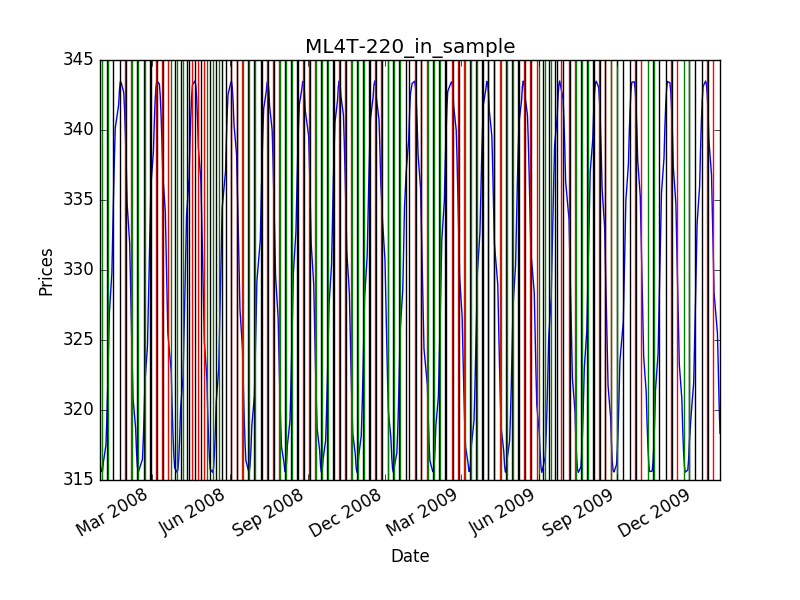
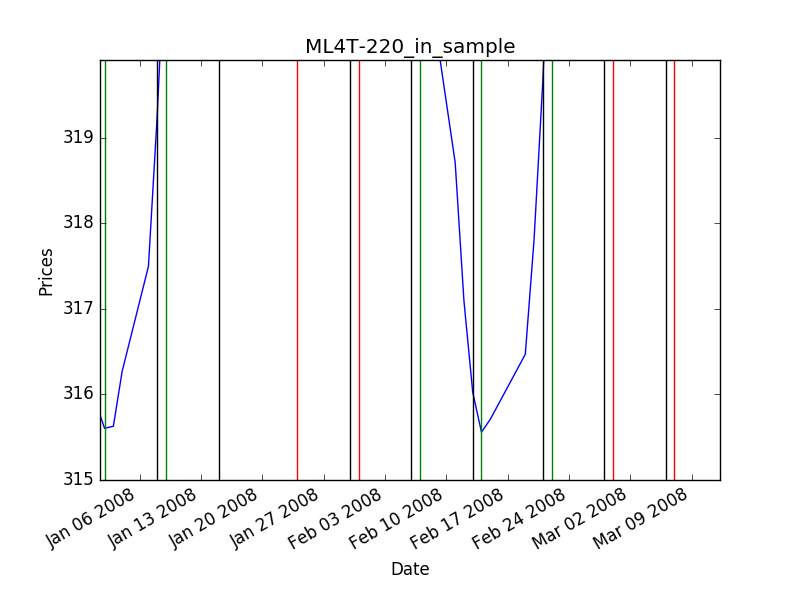
created all necessary graphs and code; trading not optimized

diff --git a/mc3_p2/preprocess.py b/mc3_p2/preprocess.py
@@ -62,9 +62,9 @@ def plot_strategy(price, of='./Orders/orders.csv', name='default'):
 
     # Plot vertical lines for shorts
     for i in range(0, len(orders)):
-        if (orders.ix[i]['Strat'] == 'Short') and (orders.ix[i]['Type'] == 'Exit'):
+        if (orders.ix[i]['Strat'] == 'Short') and (orders.ix[i]['Type'] == 'Entry'):
             ax.axvline(orders.ix[i]['Date'], color='r', linestyle='solid')
-        elif (orders.ix[i]['Strat'] == 'Short') and (orders.ix[i]['Type'] == 'Entry'):
+        elif (orders.ix[i]['Strat'] == 'Short') and (orders.ix[i]['Type'] == 'Exit'):
             ax.axvline(orders.ix[i]['Date'], color='black', linestyle='solid')
         elif (orders.ix[i]['Strat'] == 'Long') and (orders.ix[i]['Type'] == 'Entry'):
             ax.axvline(orders.ix[i]['Date'], color='green', linestyle='solid')
@@ -76,9 +76,6 @@ def plot_strategy(price, of='./Orders/orders.csv', name='default'):
     plt.show()
     fig = ax.get_figure()
     fig.savefig('./Output/%s_strategy_exitentry.png' % (name))
-
-def plot_backtest():
-    pass
 
 
 #########################################################
@@ -140,8 +137,8 @@ def preprocess_data(sym, sdate, edate, in_sample=False, is_values={}):
     df.dropna(how='any', inplace=True)
 
     # printing for debugging
-    print df.head(10)
-    print df.describe()
+    #print df.head(10)
+    #print df.describe()
 
     if in_sample:
         return df, is_values
@@ -179,8 +176,8 @@ def SendtoModel(train_df, train_price, test_df, test_price, model='knn', symbol=
         #output graphs - normalized lines
         # plot_lines_data(price_norm=train_price, actualY=train_df.iloc[0:,-1], predY=pd.Series(predY_train, index=train_df.index),
         #           name='%s_in_sample_%s' % (symbol[0], model))
-        plot_lines_data(price_norm=test_price, actualY=test_df.iloc[0:,-1], predY=pd.Series(predY_test, index=test_df.index),
-                  name='%s_out_sample_%s' % (symbol[0], model))
+        # plot_lines_data(price_norm=test_price, actualY=test_df.iloc[0:,-1], predY=pd.Series(predY_test, index=test_df.index),
+        #           name='%s_out_sample_%s' % (symbol[0], model))
 
 
         if verbose:
@@ -270,12 +267,12 @@ def create_5day_orders(df, sym='IBM', type='insample'):
 
 if __name__ == "__main__":
     # 1) Set constants
-    start_val = 1000000
+    start_val = 10000
     in_sample_dict = {}  # dictionary to hold in sample technical values stats
 
     # 2) Get and process training set
-    sym = ['IBM']
-    #sym = ['ML4T-220']
+    #sym = ['IBM']
+    sym = ['ML4T-220']
     is_start_dt = dt.datetime(2007, 12, 31)
     is_end_dt = dt.datetime(2009, 12, 31)
     is_df = get_data(sym, pd.date_range(is_start_dt, is_end_dt)) #returns symbol with closing prices
@@ -307,23 +304,23 @@ if __name__ == "__main__":
     # a) in sample
     returns_train_df = pd.concat([is_spy_df, pd.DataFrame(pred_train_Y, index = train.index, columns=['predY_returns'])], axis=1)
     create_5day_orders(returns_train_df, sym=sym, type='insample')
-    # plot_strategy(price=is_df[sym], of='./Orders/ML4T-220_knn_orders_5day_insample.csv', name='%s_in_sample' % sym[0])
+    # plot_strategy(price=is_df[sym], of='./Orders/%s_knn_orders_5day_insample.csv' % sym[0], name='%s_in_sample' % sym[0])
 
 
     # b) out of sample
     returns_test_df = pd.concat([oos_spy_df, pd.DataFrame(pred_test_Y, index = test.index, columns=['predY_returns'])], axis=1)
     create_5day_orders(returns_test_df, sym=sym, type='outsample')
-    #plot_strategy(price=oos_df[sym], of='./Orders/ML4T-220_knn_orders_5day_outsample.csv', name='%s_out_sample' % sym[0])
+    plot_strategy(price=oos_df[sym], of='./Orders/%s_knn_orders_5day_outsample.csv' % sym[0], name='%s_out_sample' % sym[0])
 
     #create_rolling_orders(pred_return_df, sym=sym)  #TODO extra credit
 
 
     # 5) Run orders through market simulators and output back testing graph
-    # sims_output(sv=start_val, of='./Orders/ML4T-220_knn_orders_5day_insample.csv', gen_plot=True,
+    # sims_output(sv=start_val, of='./Orders/%s_knn_orders_5day_insample.csv' % sym[0], gen_plot=True,
     #             symbol=sym[0], strat_name='5day_KNN_%s_%s'% (sym[0], 'insample'))
 
-    # sims_output(sv=start_val, of='./Orders/%s_knn_orders_5day_outsample.csv' % (sym, 'outsample'), symbol=sym,
-    #             gen_plot=False, strat_name='5day_KNN_%s_%s'% (sym[0], 'outsample'))
+    # sims_output(sv=start_val, of='./Orders/%s_knn_orders_5day_outsample.csv' % sym[0], symbol=sym[0],
+    #             gen_plot=True, strat_name='5day_KNN_%s_%s'% (sym[0], 'outsample'))
 
 
 
